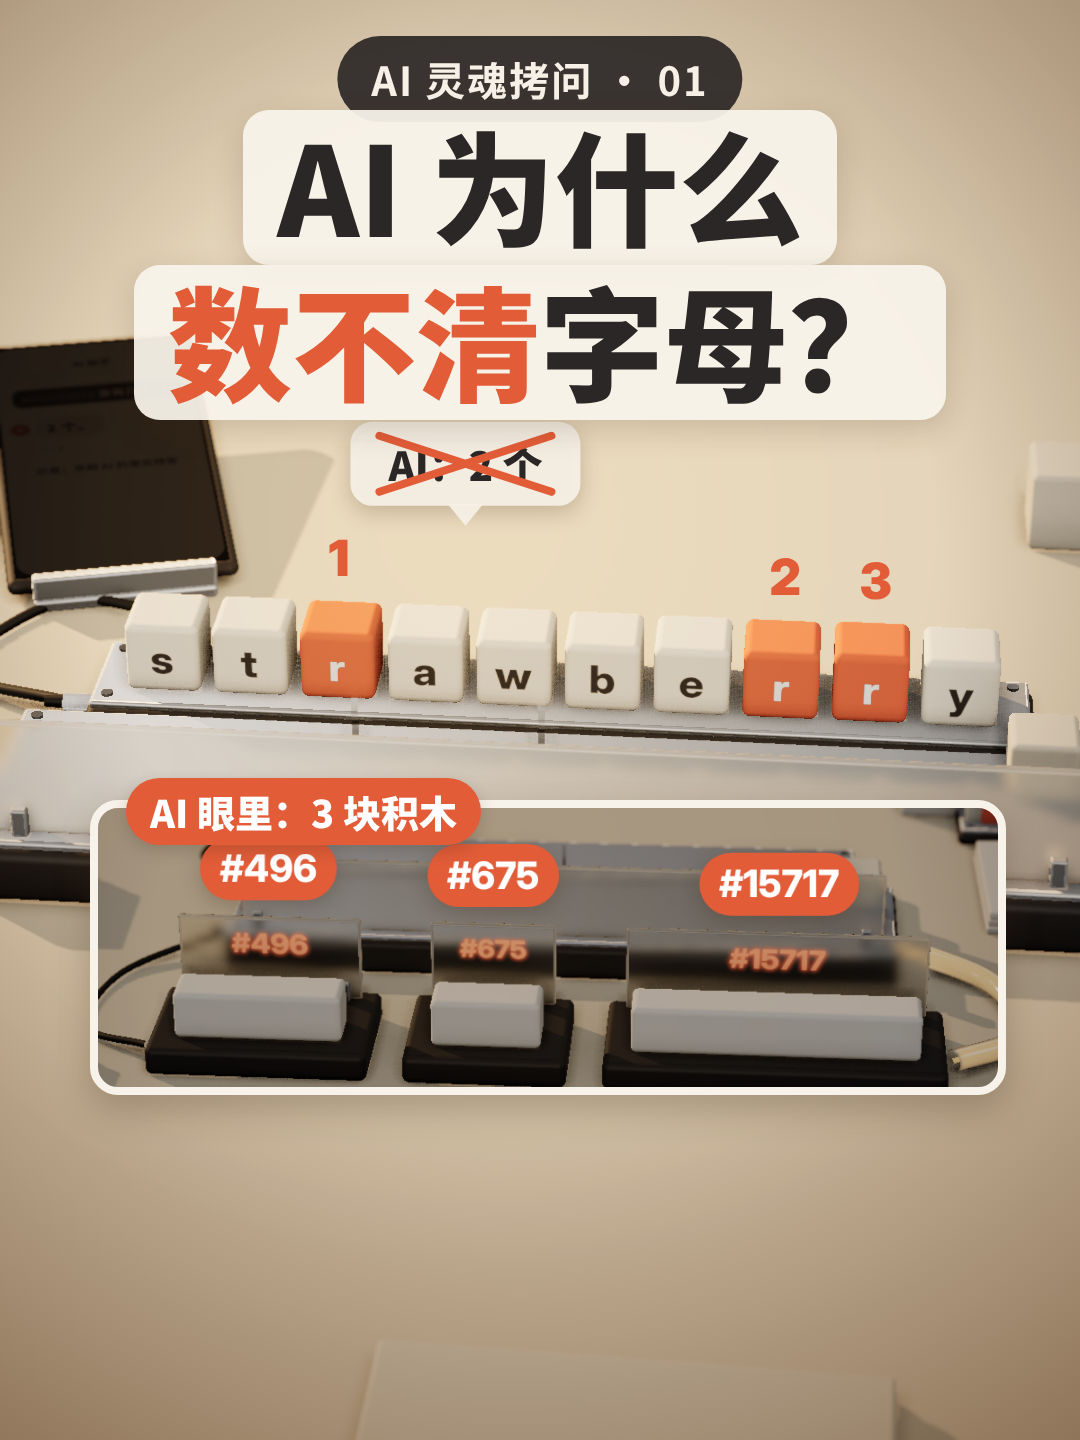
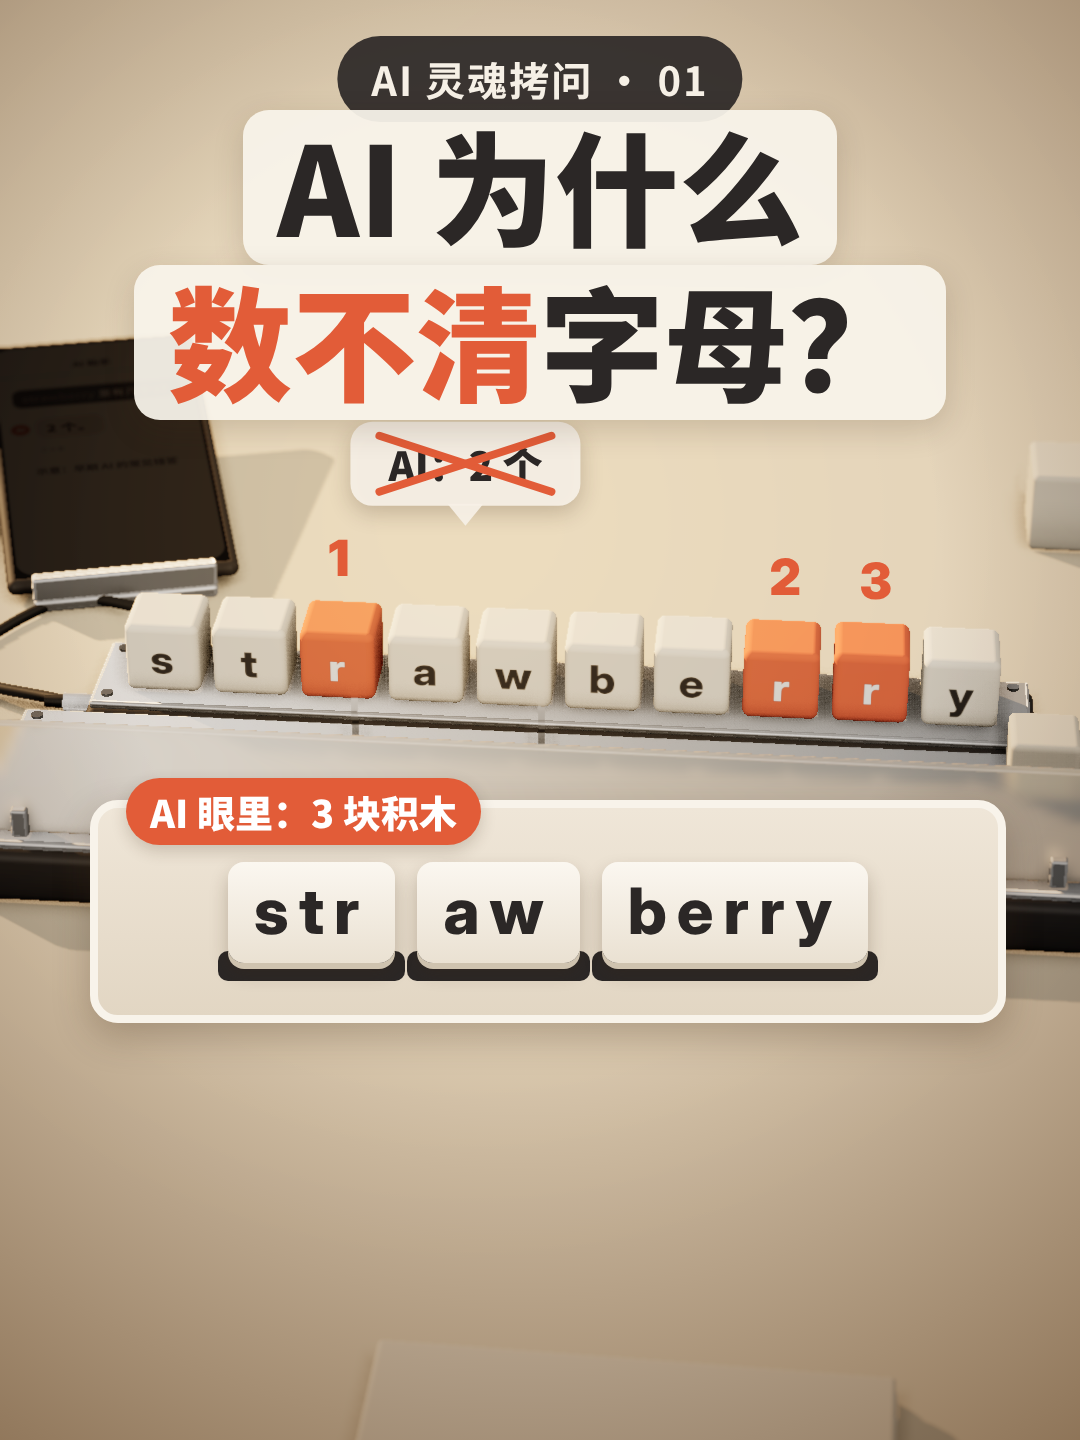
EP.01 封面卡片改成三块积木 str / aw / berry（观众：编号像零件号）；观众节点③反馈；要求清单 #32–#37
Claude-Session: https://claude.ai/code/session_01WiaSR2oHUjSk8c5HhMok97

Changed region(s): [[0.0611, 0.5625, 0.9472, 0.7812]]

diff --git a/episodes/ai-linghun/要求清单.md b/episodes/ai-linghun/要求清单.md
@@ -36,6 +36,12 @@
 | 29 | 问：为什么配音也需要 GPU；需要网络权限可以给；这个 skill 免费吗（2026-11-22，**问题，不是新要求**，只记录。信息：用户愿意放行网络权限；用户在意费用，所以 GPU 租用和模型许可要说明费用与是否免费） | 「为什么配音也需要gpu？如果需要网络权限我可以给你，另外这个skills使用是免费的么」 |
 | 30 | 配乐方向 A（暖木琴 + 电钢琴）不错，但要再给三个不同的选择（2026-11-22）。已做：A1 / A2 / A3，都在 A 的风格里变化（`music/brief.md` 试听记录） | 「A不错，麻烦再给三个不同的选择」 |
 | 31 | 本集配乐选 A1（F 大调，原配方换旋律）（2026-11-22）；接着加音效、混音 | 「选择A1」 |
+| 32 | 音效还好；先用 Blender 渲，觉得现在这版（three.js）看着就蛮不错；想知道 Blender 大约要多久；问如果渲好，能不能后期再加配音（2026-11-22，含提问）。已做：主 agent 估整片搬 Blender 约 4 小时 + 渲染；后来被 #33 收敛为试渲关键帧。「后期可以再加配音」：能，画面不依赖配音，停顿就是句间停顿（`DECISIONS.md` 11-22「放慢」条） | 「音效声音还好；先用blender渲吧，其实现在这版看着就蛮不错的，我想知道blender大约要多久；另外，如果渲好，可以后期在加配音么？」 |
+| 33 | 先试渲几张 Blender 关键帧给用户看；再试几个更自然的声线（2026-11-22）。已做：试渲 8 帧对比；6 个社区声线样音 + 「科普」对照（`voice/samples/`）。声线这条和 #28「先试更自然的声线再定」连着 | 「好，先试渲几张关键帧给我看；然后再试几个更自然的声线」 |
+| 34 | 看完关键帧对比后：这集先用 three.js 版，不做 Blender 整片；并说自己的 Fish 账号有 credit，可以用来生成配音（2026-11-22）。后查明：账号是 plus 订阅，订阅额度只能在网页 / App 用，API 额度为 0，付费模型 s2.1-pro 返回 402，只能用免费模型 s2.1-pro-free（`DECISIONS.md` 11-22 Fish 条）。#15「终版用 Blender」对本集不再适用，Blender 流程留给以后需要高质感特写的集 | 「这集先用 three.js 版；我的fish 是有credit的 ，可以用这个来生成」 |
+| 35 | 加了声音的节奏会太赶，再给几个不同的样音（2026-11-22）。注：这是对「加配音后节奏」的担心，不是现在要改时间轴；若以后加配音，要先量字幕时长和语速，不能为配音再压 12–24 秒（#26） | 「目前这个节奏加入声音会有点太赶；先再给几个不同的样音吧」 |
+| 36 | 声线范围：只要男生的，偏科普科学质感一类的（2026-11-22）。即排除女声和偏播音腔 / 情绪化的声线；排除模仿真人的声线（主 agent 此前自定） | 「只要男生的，偏科普科学质感一类的」 |
+| 37 | 暂时不用配音了，直接出整片和封面配图（2026-11-22）。本集成片 = three.js 画面 + A1 配乐 + 音效，无配音；同时出封面。**注意：这一句是用户明确要求「整片」和「封面」一起出，对「交付顺序：先定视频，再出封面」是用户本人授权的例外**，但仍要走审核「通过」和观众，不能因此跳过。配音的事搁置，#33–#36 的声线样音留着备用 | 「暂时先不用配音了，直接出整片和封面配图吧」 |
 
 ## 待用户定
 - 动效放宽的具体数值（#22）：「任意 5 秒窗口静止 < 45%、最长静止 ≤ 1.2 秒」是主 agent 定的建议值，待用户确认或调整；放宽只适用于本系列，其他系列仍按 `CLAUDE.md` 通用门槛。
@@ -43,7 +49,7 @@
 - 画风：EP.01 样片用的是「奶油色积木世界 + 往下挖到芯片变深蓝 + 左侧深度计」，是提案。v5 改用用户参考图的「暖光桌面工业设计」风格（#13、#14），是否定为本系列画风；5 个备选（#11、#12）是否就此放下。
 - 制作流程：`DECISIONS.md` 第 13 条写新内容用 animate，本环境没有这个 skill；样片沿用「为什么」的手写 Canvas2D + render.mjs。
 - v4 3D 样片（前 31 秒，three.js）：画风方向（3D 玩具桌面 / 平面 v3）是否采用；新比喻「AI 的视角」框、分词刀、积木背面编号是否保留；样片范围 31.5 秒超出用户说的「前 25 秒」，是否接受；样片用 three.js 而非 Blender / RunPod，终版是否搬过去（v5 同样待定：是否用 Blender 渲终版，换真实全局光照和更软的长阴影）。
-- 配音：用户 2026-11-22 定本集不加配音（#28）。若以后要加，先试更自然的声线再定，不默认用 Fish Audio「科普」声线。
+- 配音：用户 2026-11-22 两次定本集不加配音（#28、#37）。若以后要加：只要男声、偏科普科学质感（#36），先听样音再定（#33、#35），不默认用「科普」声线；Fish s2.1-pro 要充 API 额度（#34），用户是否充值待定。
 - EP.01：拆题四问、逐句脚本、开头 A / B / C 选哪个；对底稿原文的改动（`01-strawberry/script.md`「改动」一栏）是否认可；时长约 105 秒是否接受。
 - EP.01 `FACTS.md` 未决项：「几千个数字」是否改「几千到上万个」；「小工人」对应 CUDA 核心还是 Tensor Core；第一句「AI 根本看不见字母」是否改口；早期 AI 答「2 个」的出处待补；「如今多数 AI 已能答对」发布前实测。
 - 终版 Blender 调光（A/B 对比后发现）：磨砂玻璃雾度 / 切分时字母可读性（strawberry 几乎认不出）、导光管发光（AgX 下偏白、暖光不明显）、曝光（整体偏暗、对比偏低）。
@@ -52,3 +58,13 @@
 - ~~片尾卡带「下期 #02」大字~~：已定，保留（#23 ④，2026-11-22）。
 - ~~暖光桌面风格色度 0.13–0.18 低于 0.2~~：已定，可以（#23 ⑤）。
 - 动效放宽数值（#22）仍待用户确认：草稿 v2 实测静止 2%、最长静止 0.5 秒，已在通用门槛（0.6 秒）内。
+- 交付包（2026-11-22 监督核对，见下「交付核对」）：用户一次要整片 + 封面（#37），视频本身还没经用户确认；封面、全屏版、`publish.md` 是否算最终稿，待用户看完视频后定，视频若改要同步改封面。
+
+## 交付核对（EP.01 成片交付包，2026-11-22）
+- 视频 1080×1920、99.3 秒、含音频；全屏版 1080×2340；封面 1080×1920 / 1080×1440：已核对，规格对。
+- `publish.md` 格式：抖音（视频、封面、描述）、小红书（视频、封面、标题、备选标题、正文）、置顶评论、代码块：符合。
+- 3–5 个搜索词：列了 5 个（Token、分词、大模型原理、strawberry 有几个 r、GPU 算力）。抖音描述没覆盖「GPU 算力」；小红书标题只有 AI + Token，其余在正文和话题里。
+- 「内容由 AI 生成」：已写明待用户定及理由（本集无配音，配乐 AI 生成）。
+- 观众（Codex）：`观众反馈.md` 里只有整片草稿和 v2，**没有这个交付节点（声音版成片 + 封面 + 文案）的记录**；需等它回来后写入。
+- 审核「通过」：目前没有书面记录；交付前必须拿到。
+- 要求清单 #32–#37 是 11-22 新补的。

diff --git a/episodes/ai-linghun/01-strawberry/观众反馈.md b/episodes/ai-linghun/01-strawberry/观众反馈.md
@@ -55,3 +55,40 @@
    1. **把 0:58–1:13 的算力段砍短。** 前面两条轨道一边 15 块、一边 3 块，我已经看懂了为什么按字母读更费劲。后面留一句「块越多，算得越多」我就能接上。
    2. **让最直观的对照早点出来。** 我最想看的是结尾那种，上面三个橙色 `r`，下面一整根 `strawberry`。开头揭晓答案之后就摆在一起，我会更想听你解释。第一句也可以说成「AI 读这个词时，可能把它当成一整块」。
    3. **删掉 1:18 左右那段讲人与人怎么看世界的话。** 我刚看懂积木，突然听到「别人连这都不会」，感觉话题拐出去了。直接接「那它为什么还能答得这么自信」，我反而更想看下一集。
+
+
+## 成片交付包（2026-11-22，节点 ③：成片 99.3 秒 + 两张封面 + 抖音描述 / 小红书标题和正文）
+
+观众：Codex（`codex exec --sandbox read-only`，用户的 ChatGPT 账号）。看的是两张封面、每秒一格的接触表（5 张）和文案，**听不到声音**（成片有 A1 配乐和音效，没有配音）。原文如下：
+
+1. **会点，但主要是为了看看它怎么数错的。** 第一眼看到橙色的“数不清”，第二眼就看到三个橙色的 r。这个反差有意思，但封面已经把题和答案都摆出来了。下面的 `#496`、`#675`、`#15717` 我完全不知道是什么，还以为是机器上的零件编号。
+
+2. **抖音版更吸引我。** 标题和积木之间有点空隙，刷过去也能扫到三个 r。抖音我会把主标题换成「strawberry 有几个 r？AI 曾答 2 个」，光看封面就知道它答错在哪。小红书的「Token 是什么」在搜索结果里挺有用，但封面下半截有点挤，我会去掉那三串橙色编号，留「AI 眼里是三块」就够了。
+
+3. **前两秒会停一下。** 手机上已经有个「2 个」，我会下意识自己数一遍。但「AI 根本‘看不见’字母」这句让我愣了一下，因为它明明能打出 strawberry。我更想先看清手机上问了什么。
+
+4. **大概 62 秒想划。** 53 秒看到两条轨道，一边 15 块、一边 3 块，我已经懂了为什么要切成积木。到 62 秒又来了数字纸带，后面还有芯片和几千亿次，我会觉得这条视频开始讲另一件事了。第二次是 82 秒左右，突然开始讲怎么理解别人，我以为正片已经结束了。
+
+5. **19 秒左右，`str / aw / berry` 真变成三块的时候。** 尤其是 `berry` 那块，两个 r 都印在同一块上。看到这里我才懂前面说的“积木”跟数 r 有什么关系。40 秒那个“只听过名字，突然被问一共几笔”也好懂，就算忘了 Token 这个词，我还能记住这个例子。
+
+6. **有几处我会漏看，或者看完还有疑问。**
+
+   - **6–7 秒**，字幕已经说“三个”，6 秒那张里我只看到两个 r 亮起来。到 7 秒第三个才清楚，第一眼容易以为画面还在演错误答案。
+   - **20–25 秒**，三块上的字母变成编号，马上又切到英文问句和 `#73700`。我要在问句、编号和底下的小字之间来回看。最大的疑问是：怎么还是同一个词，刚才三块，现在就一块了？我一遍没看出空格有什么关系。
+   - **47–49 秒**，生僻字本来就不认识，下一眼它已经变成 `E9 BE` 和 `98`。我能看懂它被拆了，但不知道这两块是什么。
+   - **68–73 秒**，大字「两千亿次」我看到了，小字里的「千亿参数」很容易漏掉。我第一反应是，任何 AI 读一个词都要算这么多？
+
+7. **小红书正文前半段好读，第四条开始像在补课。** 三块积木和电话名字的例子扫一遍就懂。到了千亿参数、几万亿次、乘加单元，我就跳读了。我会收藏，主要是下次看到有人问 Token 是什么，可以翻回来找积木和名字这两个例子。
+
+8. **因为 AI 先把 strawberry 切成几块来读，有的块里藏着好几个字母，它要数 r 时就容易漏掉。**
+
+9. **会点赞，小红书会收藏，抖音大概不会收藏，也不会特意转发。** 如果评论，我会问：「那我让 AI 先把 strawberry 一个字母一个字母写出来，再数 r，它是不是就更容易数对？」
+
+10. **最想改的三件事，按顺序排。**
+
+   1. **砍短 61–76 秒的算力段。** 两条轨道已经把“为什么不逐字读”讲明白了，留一句“块越多，要做的计算也越多”，就可以收回到那三个 r。
+   2. **把数错这件事放到第一秒。** 直接让我看清「strawberry 里有几个 r？」和手机答的「2 个」，揭晓时让第三个 r 和“三个”的字幕同时出现。
+   3. **把三块变一块做成同屏对比。** 左边 `str / aw / berry`，右边把词前空格标出来，让我看清哪里变了。编号可以淡掉，我更想看清积木是怎么切的。
+
+
+**主 agent 处理**：封面下方卡片的编号「#496 #675 #15717」被读成零件编号 → 卡片改成 HTML 画的三块积木「str / aw / berry」，不放编号（`cover/make.mjs`）。其余几条（砍算力段、开头第一秒先摆问题、20–25 秒做「三块变一块」同屏对比）是结构改动，之前几轮已由用户定过，交用户决定。
